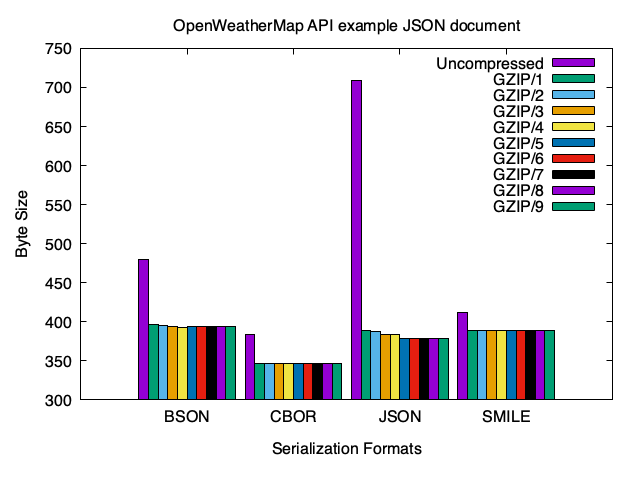
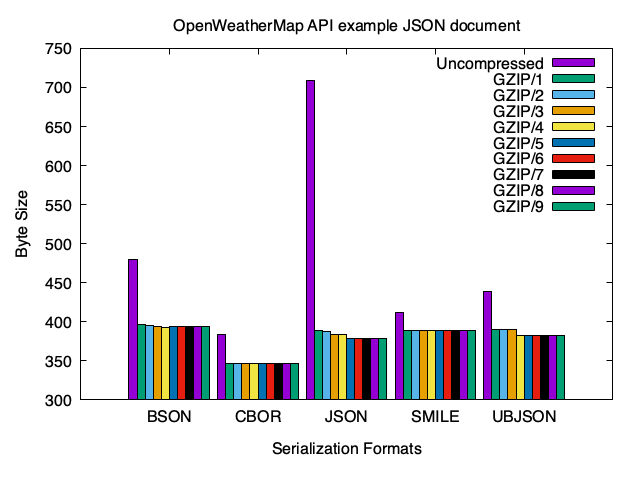
Add UBJSON

Changed region(s): [[0.1875, 0.1562, 0.9062, 0.9062]]

diff --git a/benchmark/openweathermap/ubjson/encode.py b/benchmark/openweathermap/ubjson/encode.py
@@ -1,0 +1,10 @@
+import sys
+import ubjson
+import json
+
+with open(sys.argv[1]) as json_data:
+    data = json.load(json_data)
+
+fd = open(sys.argv[2], "wb")
+fd.write(ubjson.dumpb(data))
+fd.close()

diff --git a/benchmark/openweathermap/ubjson/decode.py b/benchmark/openweathermap/ubjson/decode.py
@@ -1,0 +1,8 @@
+import sys
+import ubjson
+import json
+
+with open(sys.argv[1], mode='rb') as ubjson_data:
+    data = ubjson.loadb(ubjson_data.read())
+
+print(json.dumps(data, indent=4))
